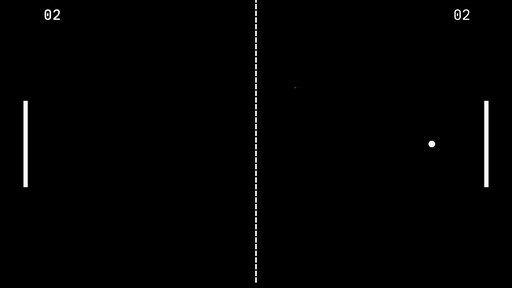
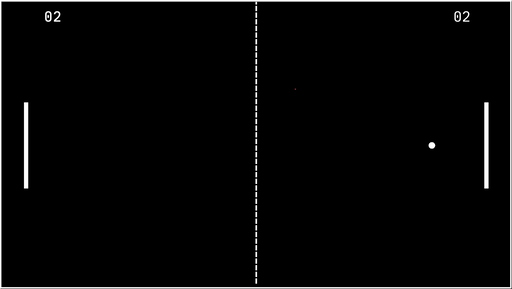
post: Pong Clone post edited
Borders added to pong screenshots.

Changed region(s): [[0.0, 0.0, 1.0, 1.0]]

diff --git a/content/projects/pong/index.md b/content/projects/pong/index.md
@@ -10,7 +10,7 @@ tags = ["cpp", "game-dev"]
 
 [extra]
 images = ["main-game.png", "start-screen.png", "main-game-start.png", "pause-menu.png", "control-menu.png"]
-archived = true
+status = "Archived"
 source = "https://github.com/oraqlle/pong-broken"
 +++
 
@@ -18,7 +18,7 @@ Pong clone written in C++ using SFML and [Crank](/projects/crank).
 It was primarily built to test Crank, a simple state machine for small video games.
 It is built using a new build tool called [bpt](https://github.com/vector-of-bool/bpt).
 
-> Edit (26-04-2026): bpt is no longer be maintained
+* Edit (26-04-2026): bpt is no longer be maintained
 
 ## Screen Shots
 
